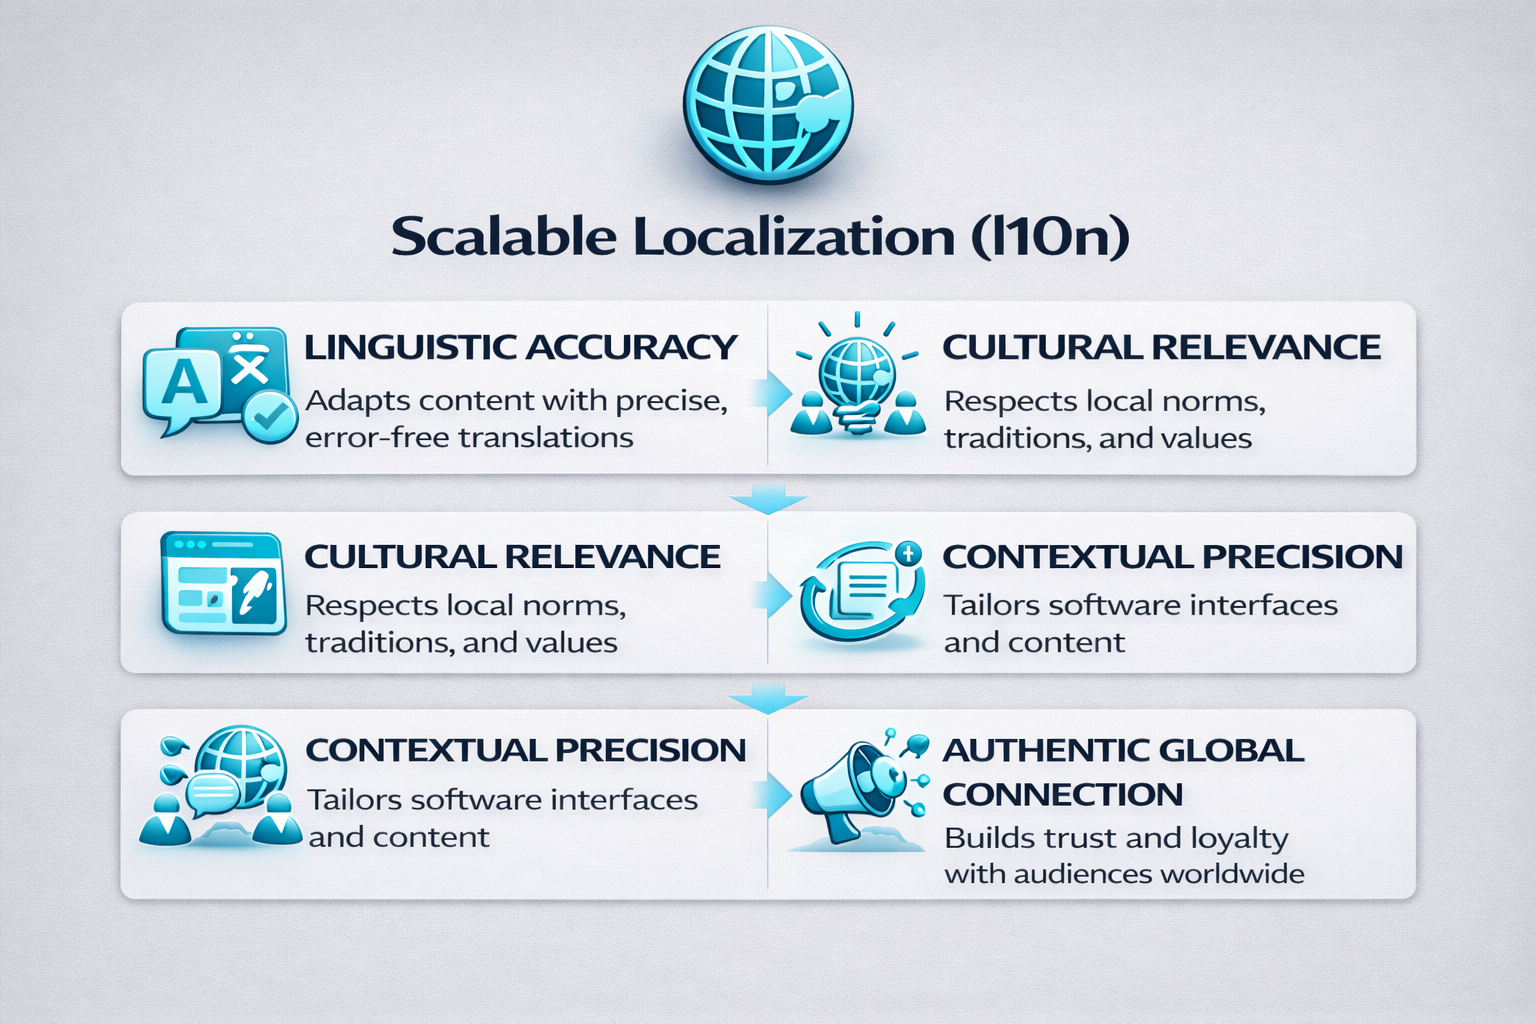
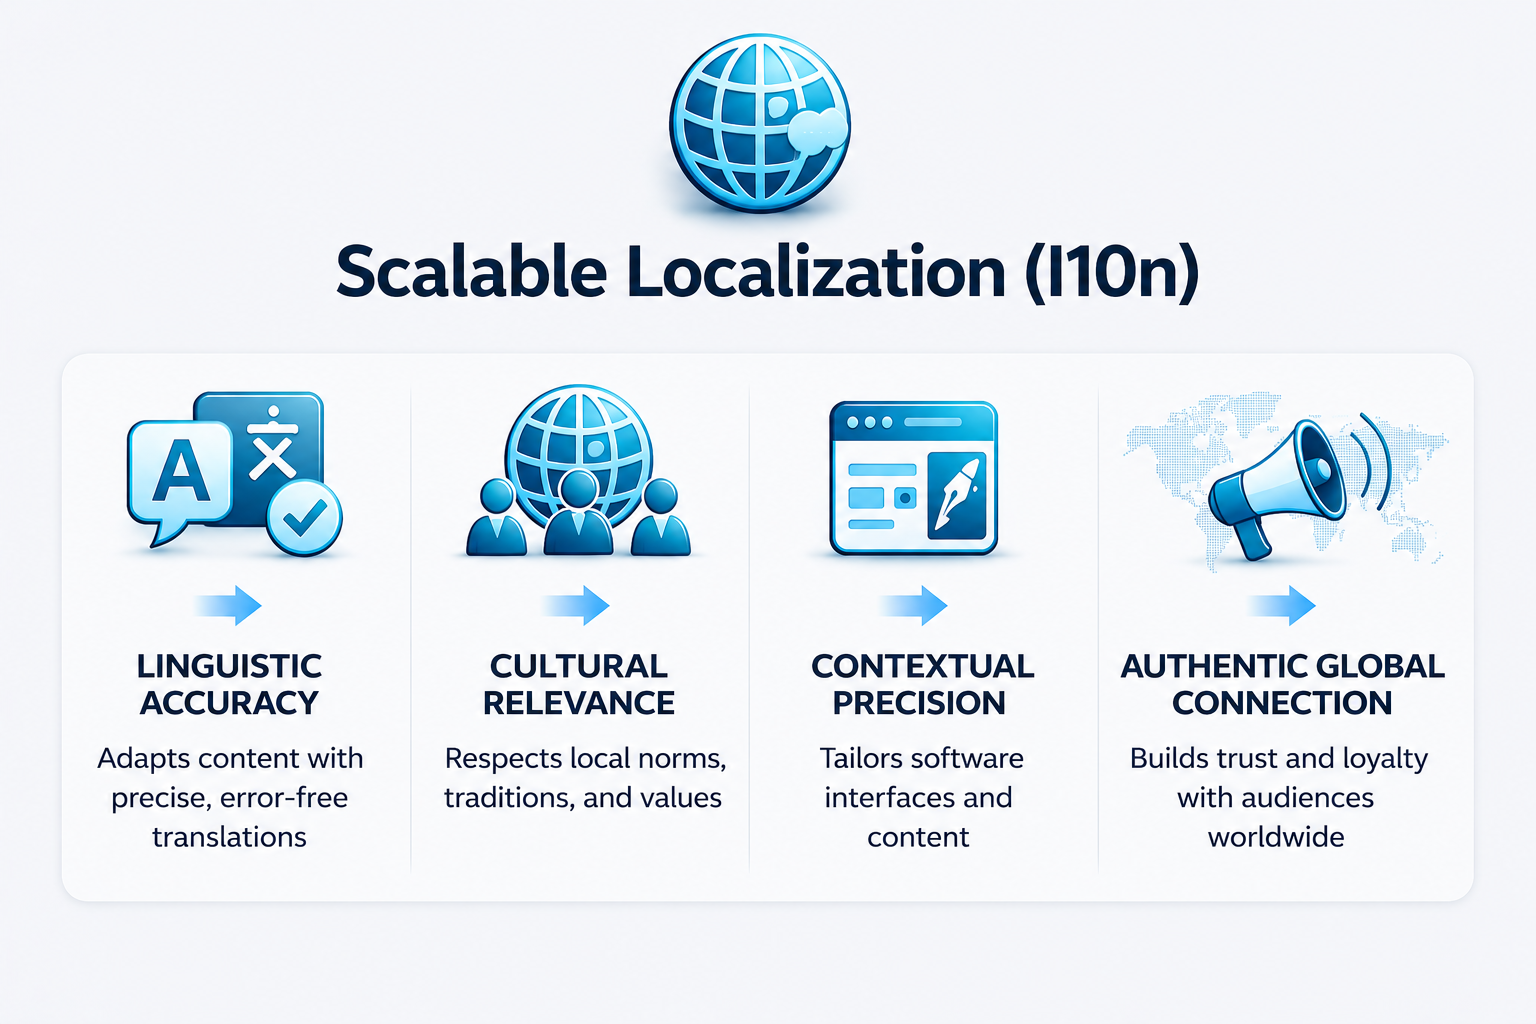
few infograph images were changed and added customer animation

diff --git a/app/page.tsx b/app/page.tsx
@@ -464,35 +464,31 @@ useEffect(() => {
           <div className="client-marquee flex whitespace-nowrap items-center">
 
             {[
-              "/images/client1.png",
-              "/images/client1.png",
-              "/images/client1.png",
-              "/images/client1.png",
-              "/images/client1.png",
-              "/images/client1.png",
-              "/images/client1.png",
-              "/images/client1.png",
-              "/images/client1.png",
-              "/images/client1.png",
+              "/images/wipro.png",
+              "/images/aptara.png",
+              "/images/jamcracker.png",
+              "/images/syngenta.png",
+              "/images/learningmate.webp",
+             
 
               /* duplicate for seamless loop */
-              "/images/client1.png",
-              "/images/client1.png",
-              "/images/client1.png",
-              "/images/client1.png",
-              "/images/client1.png",
-              "/images/client1.png",
-              "/images/client1.png",
-              "/images/client1.png",
-              "/images/client1.png",
-              "/images/client1.png",
+              "/images/wipro.png",
+              "/images/aptara.png",
+              "/images/jamcracker.png",
+              "/images/syngenta.png",
+              "/images/learningmate.webp",
+              
             ].map((src, i) => (
               <img
-                key={i}
-                src={src}
-                alt="client"
-                className="block h-12 md:h-14 mx-14 opacity-60 grayscale hover:grayscale-0 hover:opacity-100 transition duration-300"
-              />
+  key={i}
+  src={src}
+  alt="client"
+  className={`block w-auto object-contain mx-16 grayscale brightness-[3] opacity-90 transition duration-300 ${
+    src.includes("learningmate")
+      ? "h-8 md:h-9"
+      : "h-40 md:h-42"
+  }`}
+/>
             ))}
 
           </div>

diff --git a/app/languages/regional-language-coverage/page.tsx b/app/languages/regional-language-coverage/page.tsx
@@ -21,7 +21,7 @@ export default function Page() {
         id="regional-language-coverage"
         label="Languages"
         title="Regional Language Coverage"
-        img="/images/languages-v2.png"
+        img="/images/regional_language_coverage-v2.png"
       >
         PolyVerb AI provides strong regional language support across high-growth
         and strategic markets. From India to Europe, Asia, and the Middle East,

diff --git a/app/languages/global-language-coverage/page.tsx b/app/languages/global-language-coverage/page.tsx
@@ -21,7 +21,7 @@ export default function Page() {
         id="global-language-coverage"
         label="Languages"
         title="Global Language Coverage"
-        img="/images/languages-v2.png"
+        img="/images/global_language_coverage-v2.png"
       >
         PolyVerb AI supports a wide range of global languages, enabling
         businesses to reach diverse audiences with accuracy, consistency,

diff --git a/app/languages/domain-expertise/page.tsx b/app/languages/domain-expertise/page.tsx
@@ -21,7 +21,7 @@ export default function Page() {
         id="domain-expertise"
         label="Languages"
         title="Domain Expertise"
-        img="/images/network-v2.png"
+        img="/images/domain_epxertise_v2.png"
       >
         PolyVerb AI combines linguistic excellence with industry knowledge to
         deliver translations and localization tailored to specialized sectors.
